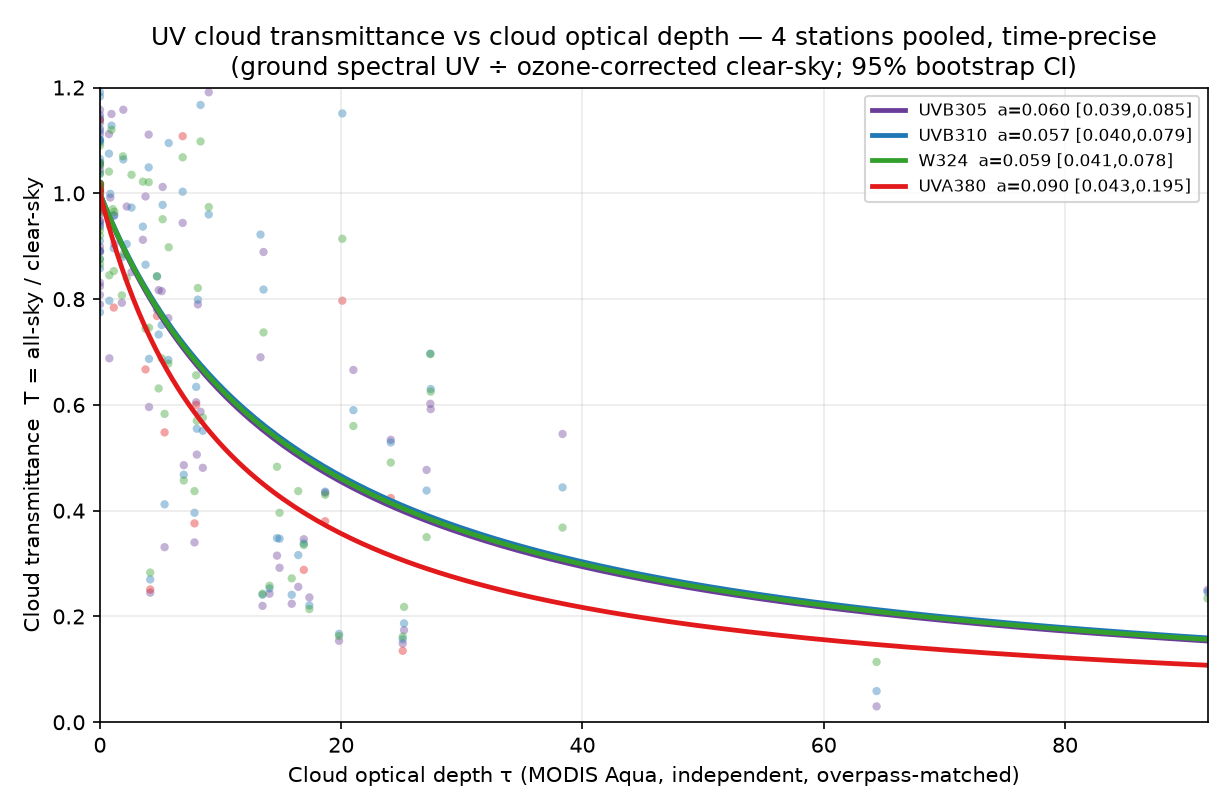
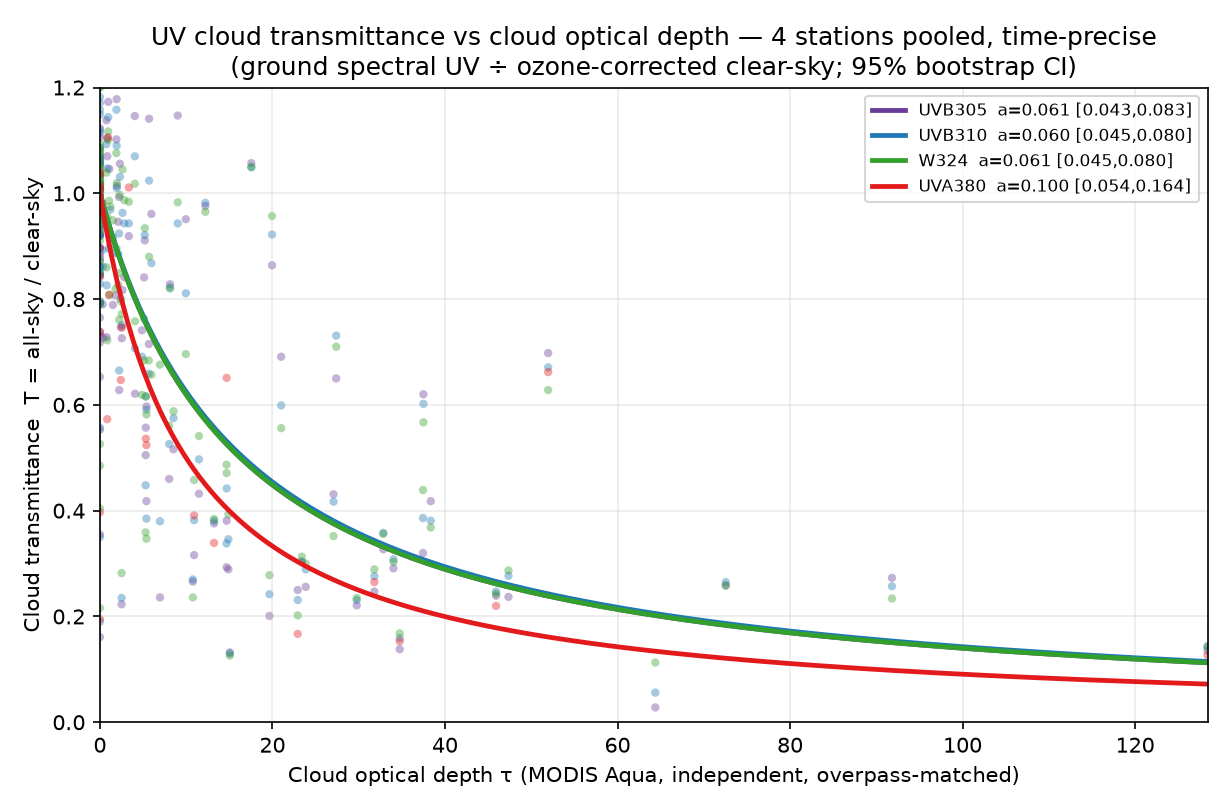
Expand to 2-4 years/station (n=125): tighter UVB CI [0.043,0.083]; Ushuaia UVA still infeasible (sub-Antarctic)

diff --git a/run_multi.py b/run_multi.py
@@ -9,15 +9,15 @@ from fetch_modis_tau import modis_tau
 API="https://api.woudc.org"
 
 # (표시명, WOUDC platform_name, lat, lon, 지상연도들, UVA380가능)
-STATIONS=[  # (표시명, WOUDC명, lat, lon, 연도, UVA380, stride)
- ("MaunaLoa","Mauna Loa", 19.536,-155.576,[2018],False, 8),
- ("Tateno",  "Tateno",    36.058, 140.126,[2019],False, 8),
- ("Uccle",   "Uccle",     50.80,    4.35, [2022],False,16),
- ("Lauder",  "Lauder",   -45.038, 169.684,[2018],True,  1),
- ("Ushuaia", "Ushuaia",  -54.85,  -68.31, [2004],True,  8),
+STATIONS=[  # (표시명, WOUDC명, lat, lon, 연도들, UVA380, stride)
+ ("MaunaLoa","Mauna Loa", 19.536,-155.576,[2017,2018],False, 8),
+ ("Tateno",  "Tateno",    36.058, 140.126,[2019,2020],False, 8),
+ ("Uccle",   "Uccle",     50.80,    4.35, [2022,2023],False,16),
+ ("Lauder",  "Lauder",   -45.038, 169.684,[2016,2017,2018],True, 1),
+ ("Ushuaia", "Ushuaia",  -54.85,  -68.31, [2003,2004,2006,2007],True, 8),
 ]
-DAYS_PER_STN=22
-POOLED="pooled_matched2.csv"
+DAYS_PER_STN=32
+POOLED="pooled_matched3.csv"
 
 def pull_ozone(station, years):
     s=requests.Session(); s.headers.update({"User-Agent":"uv/1.0"}); rows=[]; off=0
@@ -61,7 +61,7 @@ def transmittance(ground_csv, station, years, uva):
         if m.sum()>=8: cx.append(lo+1); cy.append(np.percentile(e[m],95))
     if len(cx)<3: return None
     env=np.interp(x,np.array(cx),np.array(cy)); clear=e>=0.85*env   # 흐린 관측소(Ushuaia) 대비 완화
-    if clear.sum()<12: return None
+    if clear.sum()<10: return None
     mu=df.mu.values; o3v=df.o3.values
     bands={"T305":"uvb_305","T310":"uvb_310","T324":"uv_324"}
     if uva: bands["T380"]="uva_380"
@@ -92,7 +92,7 @@ first=not os.path.exists(POOLED)
 
 for disp,wname,lat,lon,years,uva,stride in STATIONS:
     print(f"\n===== {disp} ({lat:.1f}) years={years} UVA={uva} stride={stride} =====",flush=True)
-    gcsv=f"ground2_{disp}.csv"   # UTC오프셋 포함 재추출본
+    gcsv=f"ground3_{disp}.csv"   # 다년·UTC오프셋 포함 재추출본
     if not os.path.exists(gcsv):
         try: FG.fetch_ground_uv(wname, years, gcsv, stride=stride, verbose=True)
         except SystemExit as e: print("  지상 추출 실패:",e); continue

diff --git a/pooled_regress2.py b/pooled_regress2.py
@@ -7,7 +7,7 @@ import matplotlib.pyplot as plt
 rng = np.random.RandomState(0)
 sys.stdout.reconfigure(encoding="utf-8")
 
-d = pd.read_csv("pooled_matched2.csv")
+d = pd.read_csv("pooled_matched3.csv")
 d["dt_min"] = pd.to_numeric(d.get("dt_min"), errors="coerce")
 print(f"풀링 표본 n={len(d)}  관측소 {d.station.nunique()}개  τ 0–{d.tau.max():.0f}")
 if d["dt_min"].notna().any():